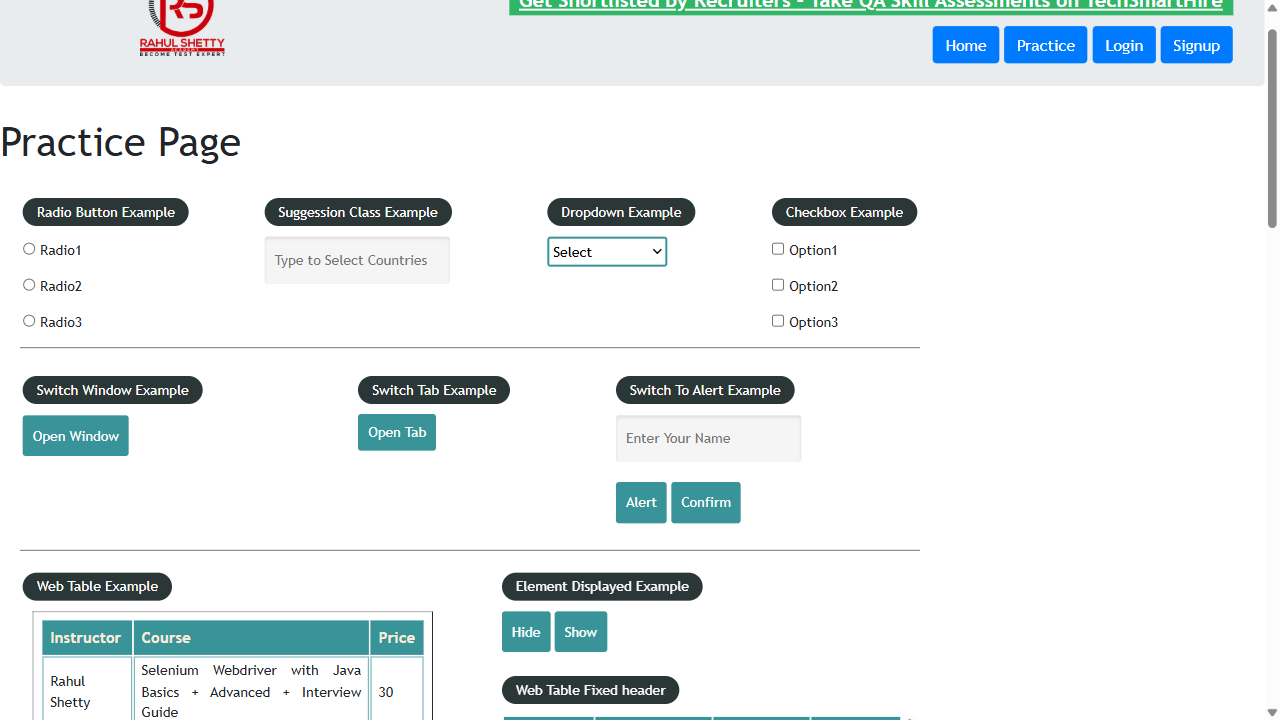
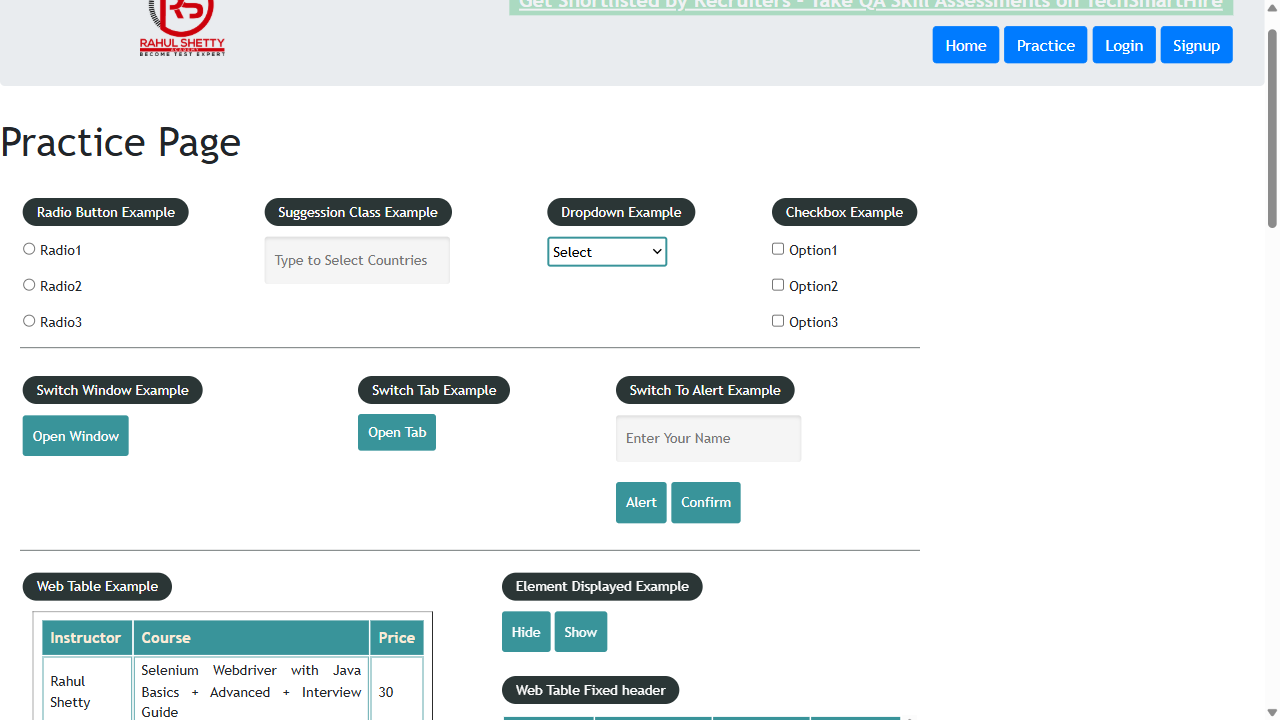
Update file

Changed region(s): [[0.375, 0.0, 0.9688, 0.0306]]

diff --git a/tests/Section6/e2e.spec.js b/tests/Section6/e2e.spec.js
@@ -1,5 +1,4 @@
 const { test, expect } = require('@playwright/test');
-const { text } = require('node:stream/consumers');
 
 test("End to End Automation Learning", async ({ browser }) => {
 
@@ -54,23 +53,17 @@ test("End to End Automation Learning", async ({ browser }) => {
 
     for (let i = 0; i < optionCount; i++) {
         let text = await dropdown.locator('button').nth(i).textContent()
-        if(text.trim() === 'India')
-        {
+        if (text.trim() === 'India') {
             console.log(text)
             await dropdown.locator('button').nth(i).click()
             break;
         }
-        
+
     }
 
 
-     await expect(page.locator("label[type='text']").first()).toHaveText('rathore.shanu1996@yopmail.com')
+    await expect(page.locator("label[type='text']").first()).toHaveText('rathore.shanu1996@yopmail.com')
     //await page.locator("//input[@class='input txt text-validated ng-pristine ng-valid ng-touched']")
     await page.locator('a:has-text("PLACE ORDER")').click()
-
-
-
-
-    await page.pause()
 
 })

diff --git a/playwright.config.js b/playwright.config.js
@@ -38,6 +38,7 @@ export default defineConfig({
   projects: [
   {
     name: 'chromium',
+    retries: 1,
     use: {
       ...devices['Desktop Chrome'],
       channel: 'chrome',
@@ -45,7 +46,7 @@ export default defineConfig({
       screenshot: 'only-on-failure',
       trace: 'on',
       ignoreHTTPSErrors : true,
-      permissions:['Geolocation'],
+      // permissions:['Geolocation'],
       video:'on-first-retry',
       //viewport : {width : 1080, height : 720}
     },

diff --git a/tests/Section11/webAPIPart3.spec.js b/tests/Section11/webAPIPart3.spec.js
@@ -1,5 +1,5 @@
 const { test, expect, request } = require('@playwright/test');
-const { APiUtils } = require('../utils/APiUtils');
+const { APiUtils } = require('../../utils/APiUtils');
 const loginPayLoad = { userEmail: "anshika@gmail.com", userPassword: "Iamking@000" };
 const orderPayLoad = { orders: [{ country: "Cuba", productOrderedId: "67a8dde5c0d3e6622a297cc8" }] };
 
